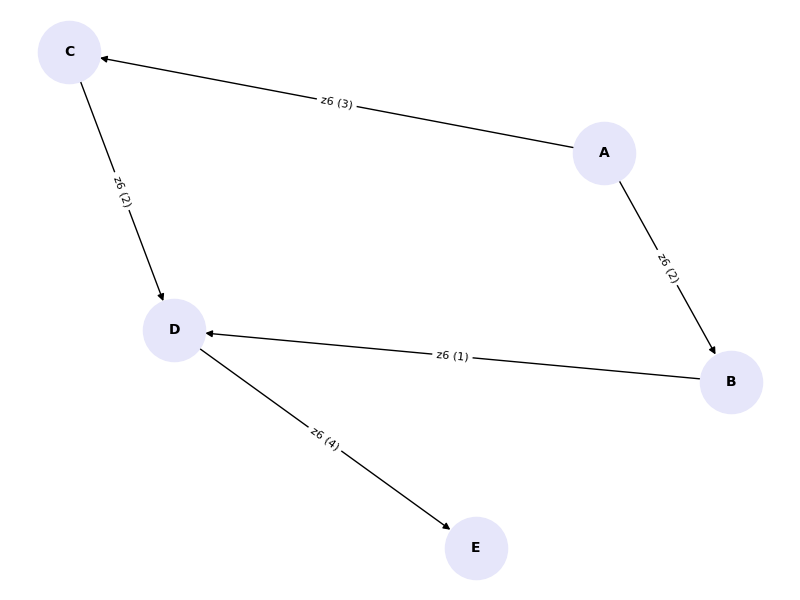
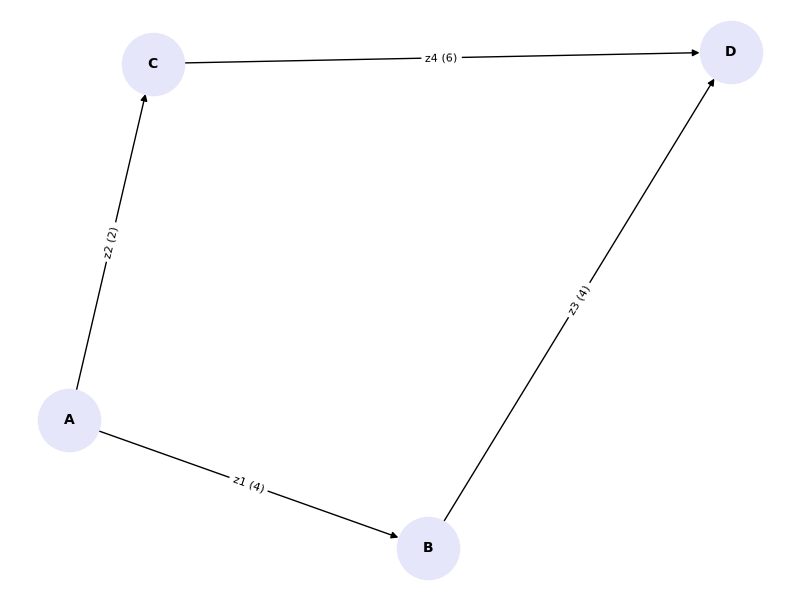
good lables

diff --git a/lab05/main.py b/lab05/main.py
@@ -9,18 +9,30 @@ class CriticalPathMethod:
     def __init__(self, tasks):
         self.tasks = tasks
         self.graph = defaultdict(list)
+        self.graph_mapping = defaultdict(list)
         self.weights = {}
+        self.weights_mapping = {}
         self.order = []
+        self.order_mapping = []
         self.ES = {}
         self.LS = {}
         self.critical_path = []
-        self.node_mapping={}
-        self.tasks_mapping =[]
+        self.edge_task_mapping = {}
+        self.edge_task_mapping_new = {}
+        self.topo_mapping = {}
 
     def build_graph(self):
         for start, end, duration in self.tasks:
             self.graph[start].append(end)
             self.weights[(start, end)] = duration
+
+        G = nx.DiGraph()
+        for (start, end), duration in self.weights.items():
+            G.add_edge(start, end, task=f"z{len(G.edges) + 1}", duration=duration)
+            self.edge_task_mapping[(start, end)] = f"z{len(G.edges)}"
+        pos = nx.spring_layout(G)
+        edge_labels = {edge: f"{G.edges[edge]['task']} ({G.edges[edge]['duration']})" for edge in G.edges}
+        self.draw_graph(G, edge_labels, pos, "Graf wejściowy", "graf_wejsciowy.png", node_color="purple")
 
     def topological_sort(self):
         in_degree = defaultdict(int)
@@ -39,69 +51,94 @@ class CriticalPathMethod:
                 if in_degree[neighbor] == 0:
                     queue.append(neighbor)
 
-        self.node_mapping = {node: ascii_uppercase[i] for i, node in enumerate(self.order)}
 
-        mapped_order = [self.node_mapping[node] for node in self.order]
-        self.order = mapped_order
+        self.topo_mapping = {node: ascii_uppercase[i] for i, node in enumerate(self.order)}
 
-
-
-        new_weights = {}
+        G_t = nx.DiGraph()
         for (start, end), duration in self.weights.items():
-            mapped_start = self.node_mapping[start]
-            mapped_end = self.node_mapping[end]
-            new_weights[(mapped_start, mapped_end)] = duration
-        self.weights = new_weights
+            mapped_start = self.topo_mapping[start]
+            mapped_end = self.topo_mapping[end]
+            G_t.add_edge(mapped_start, mapped_end, task=self.edge_task_mapping[(start, end)], duration=duration)
+        pos_t = nx.spring_layout(G_t)
+        edge_labels_topo = {edge: f"{G_t.edges[edge]['task']} ({G_t.edges[edge]['duration']})" for edge in G_t.edges}
+        self.draw_graph(G_t, edge_labels_topo, pos_t, "Graf topologiczny", "graf_topologiczny.png", node_color="lavender")
 
 
         new_graph = defaultdict(list)
         for node, neighbors in self.graph.items():
-            mapped_node = self.node_mapping[node]
+            mapped_node = self.topo_mapping[node]
             for neighbor in neighbors:
-                mapped_neighbor = self.node_mapping[neighbor]
+                mapped_neighbor = self.topo_mapping[neighbor]
                 new_graph[mapped_node].append(mapped_neighbor)
-        self.graph = new_graph
-
-        self.tasks_mapping = [(self.node_mapping[start], self.node_mapping[end], duration)for start, end, duration in self.tasks]
+        self.graph_mapping = new_graph
 
 
-            
+        mapped_order = [self.topo_mapping[node] for node in self.order]
+        self.order_mapping = mapped_order
+
+        new_weights = {}
+        for (start, end), duration in self.weights.items():
+            mapped_start = self.topo_mapping[start]
+            mapped_end = self.topo_mapping[end]
+            new_weights[(mapped_start, mapped_end)] = duration
+        self.weights_mapping = new_weights
+
+        edge_task_mapping_new = {}
+        for (start, end), edge in self.edge_task_mapping.items():
+            mapped_start = self.topo_mapping[start]
+            mapped_end = self.topo_mapping[end]
+            edge_task_mapping_new[(mapped_start, mapped_end)] = edge
+        self.edge_task_mapping_new = edge_task_mapping_new
+
+        print("Topological Order:", [self.topo_mapping[node] for node in self.order])
+
 
     def calculate_ES(self):
-        self.ES = {node: 0 for node in self.order}
-        for node in self.order:
-            for neighbor in self.graph[node]:
-                self.ES[neighbor] = max(self.ES[neighbor], self.ES[node] + self.weights[(node, neighbor)])
-        
+        self.ES = {node: 0 for node in self.order_mapping}
+        for node in self.order_mapping:
+            for neighbor in self.graph_mapping[node]:
+                self.ES[neighbor] = max(self.ES[neighbor], self.ES[node] + self.weights_mapping[(node, neighbor)])
+
+        print("Earliest Start Times (ES):", self.ES)
+
 
     def calculate_LS(self):
         max_time = max(self.ES.values())
-        self.LS = {node: max_time for node in self.order[::-1]}
+        self.LS = {node: max_time for node in self.order_mapping[::-1]}
 
-        for node in reversed(self.order):
-            for neighbor in self.graph[node]:
-                self.LS[node] = min(self.LS[node], self.LS[neighbor] - self.weights[(node, neighbor)])
+        for node in reversed(self.order_mapping):
+            for neighbor in self.graph_mapping[node]:
+                self.LS[node] = min(self.LS[node], self.LS[neighbor] - self.weights_mapping[(node, neighbor)])
+        print("Latest Start Times (LS):", self.LS)
+        
 
     def find_critical_path(self):
         self.critical_path = []
-        for start, end in self.weights:
-            if self.ES[start] == self.LS[start] and self.ES[end] == self.LS[end]:
-                self.critical_path.append((start, end))
+        current_node = self.order_mapping[0]
+        while current_node != self.order_mapping[-1]:
+            for neighbor in self.graph_mapping[current_node]:
+                if self.ES[neighbor] == self.LS[neighbor]:
+                    self.critical_path.append((current_node, neighbor))
+                    current_node = neighbor
+                    break
+
+        print("Critical Path:", [self.edge_task_mapping_new[edge] for edge in self.critical_path])
+
+
+        
 
     def draw_gantt_chart(self):
         plt.figure(figsize=(12, 8))
         machine_usage = defaultdict(list)
-        task_colors = {}  # Słownik dla kolorów zadań
-        available_colors = list(mcolors.TABLEAU_COLORS.values())  # Lista dostępnych kolorów
+        task_colors = {}
+        available_colors = list(mcolors.TABLEAU_COLORS.values())
 
-        # Przypisanie kolorów do zadań
-        for i, task in enumerate(self.tasks_mapping):
-            task_colors[task] = available_colors[i % len(available_colors)]  # Wybieranie kolorów cyklicznie
+        for i, (start, end) in enumerate(self.weights_mapping):
+            task_colors[(start, end)] = available_colors[i % len(available_colors)]
 
-        # Rysowanie zadań na diagramie Gantta
-        for start, end, duration in self.tasks_mapping:
+        for start, end in self.weights_mapping:
             start_time = self.ES[start]
-            end_time = start_time + duration
+            end_time = start_time + self.weights_mapping[(start, end)]
             for machine in range(len(machine_usage) + 1):
                 if not any(start_time < m_end and end_time > m_start for m_start, m_end in machine_usage[machine]):
                     machine_usage[machine].append((start_time, end_time))
@@ -109,20 +146,18 @@ class CriticalPathMethod:
                         [start_time, end_time],
                         [machine, machine],
                         linewidth=6,
-                        color=task_colors[(start, end, duration)],
-                        label=f"{start}->{end}" if machine == 0 else None  # Label tylko raz
+                        color=task_colors[(start, end)],
+                        label=self.edge_task_mapping_new[(start, end)] if machine == 0 else None
                     )
                     break
 
-        # Dodanie legendy z opisem kolorów
         legend_handles = [
-            plt.Line2D([0], [0], color=color, linewidth=6, label=f"{start}->{end}")
-            for (start, end, duration), color in task_colors.items()
+            plt.Line2D([0], [0], color=color, linewidth=6, label=self.edge_task_mapping_new[(start, end)])
+            for (start, end), color in task_colors.items()
         ]
         plt.legend(handles=legend_handles, title="Zadania", loc="upper right")
 
-        # Konfiguracja osi i tytułu
-        plt.yticks(range(len(machine_usage)), [f"Machine {i+1}" for i in range(len(machine_usage))])
+        plt.yticks(range(len(machine_usage)), [f"Machine {i + 1}" for i in range(len(machine_usage))])
         plt.xlabel("Time")
         plt.ylabel("Machines")
         plt.title("Diagram Gantta z kolorami zadań")
@@ -144,40 +179,15 @@ class CriticalPathMethod:
         self.calculate_ES()
         self.calculate_LS()
         self.find_critical_path()
-
-        # # Graf wejściowy
-        G = nx.DiGraph()
-        for start, end, duration in self.tasks:
-            G.add_edge(start, end, task=f"z{len(G.edges) + 1}", duration=duration)
-        pos = nx.spring_layout(G)
-        edge_labels_input = {edge: f"{G.edges[edge]['task']} ({G.edges[edge]['duration']})" for edge in G.edges}
-        self.draw_graph(G, edge_labels_input, pos, "Graf wejściowy", "graf_wejsciowy.png", node_color="purple")
-
-
-        G_t = nx.DiGraph()
-        for start, end, duration in self.tasks_mapping:
-            G_t.add_edge(start, end, task=f"z{len(G.edges) + 1}", duration=duration)
-        pos = nx.spring_layout(G_t)
-        edge_labels_input_t = {edge: f"{G_t.edges[edge]['task']} ({G_t.edges[edge]['duration']})" for edge in G_t.edges}
-        self.draw_graph(G_t, edge_labels_input_t, pos, "Graf topologiczny", "graf_topologiczny.png", node_color="lavender")
-
-        print("Topological Order:", self.order)
-        print("Earliest Start Times (ES):", self.ES)
-        print("Latest Start Times (LS):", self.LS)
-        print("Critical Path:", self.critical_path)
         self.draw_gantt_chart()
 
-        print(f"graf: {self.graph.edges}")
 
-
-# Przykład użycia
+# Example tasks
 tasks = [
-    # ('w2', 'w1', 3),
-    ('w2', 'w4', 2),
-    ('w2', 'w1', 3),
-    ('w1', 'w3', 2),
-    ('w4', 'w3', 1),
-    ('w3', 'w5', 4),
+    ("w1", "w2", 4),
+    ("w1", "w3", 2),
+    ("w2", "w4", 4),
+    ("w3", "w4", 6)
 ]
 
 cpm = CriticalPathMethod(tasks)
